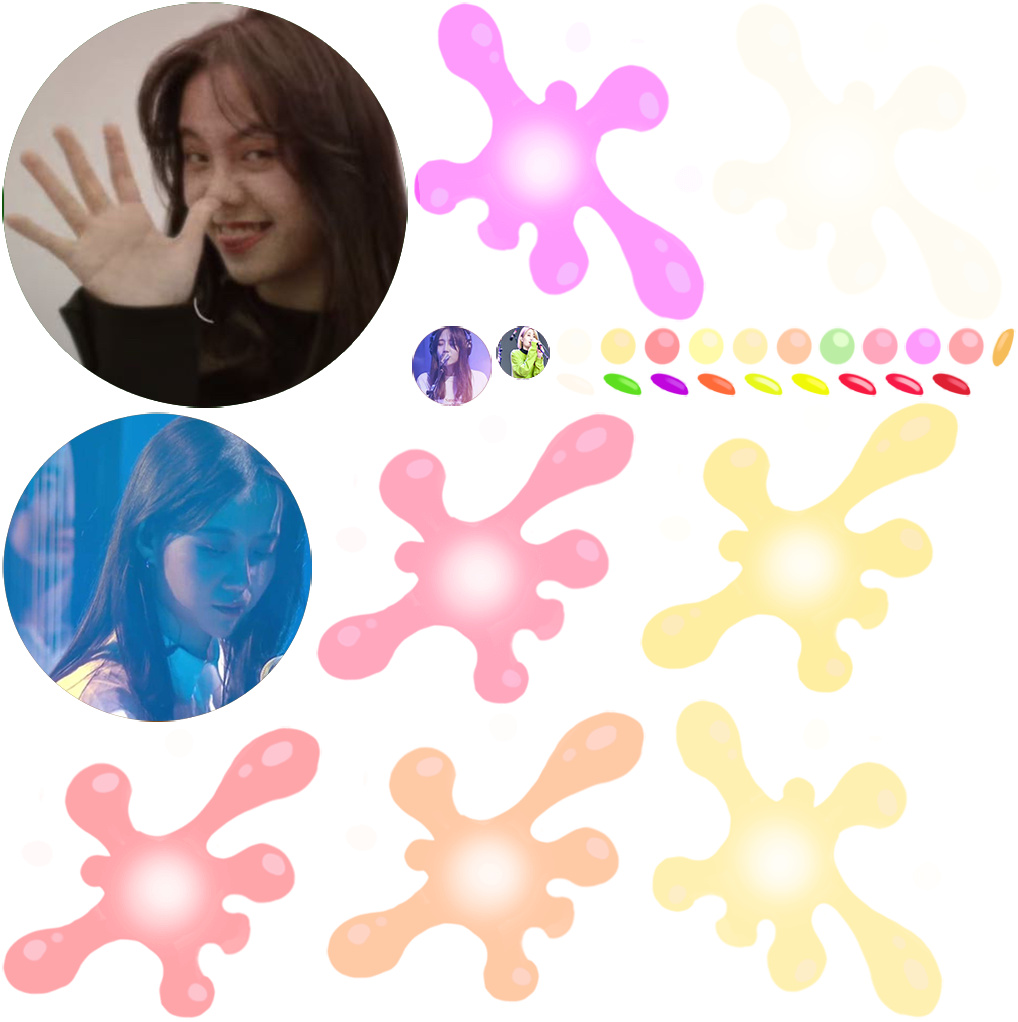
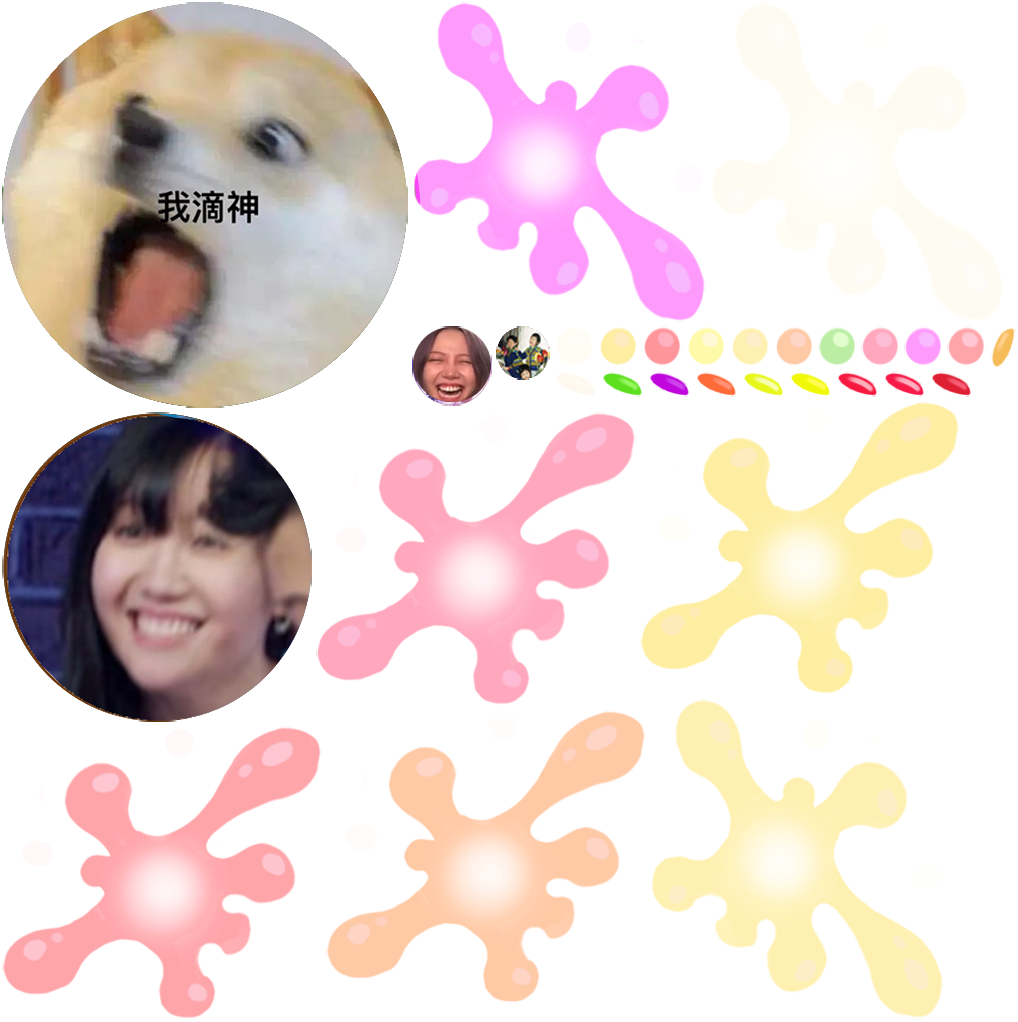
nitial commit

Changed region(s): [[0.0, 0.0, 0.4263, 0.728], [0.3959, 0.3033, 0.5481, 0.3943]]

diff --git a/index.html b/index.html
@@ -4,7 +4,7 @@
 <head>
     <meta charset="utf-8">
 
-    <title>合成杜冰儿</title>
+    <title>合成福禄寿</title>
 
     <!--http://www.html5rocks.com/en/mobile/mobifying/-->
     <meta name="viewport" content="width=device-width,user-scalable=no,initial-scale=1, minimum-scale=1,maximum-scale=1" />
@@ -109,7 +109,7 @@
             //        console.log("window.navigator.language",window.navigator.language);
 
             if (window.navigator.language == "zh-CN" || window.navigator.language == "zh-cn") {
-                document.title = "合成杜冰儿";
+                document.title = "合成福禄寿";
             } 
 
 
